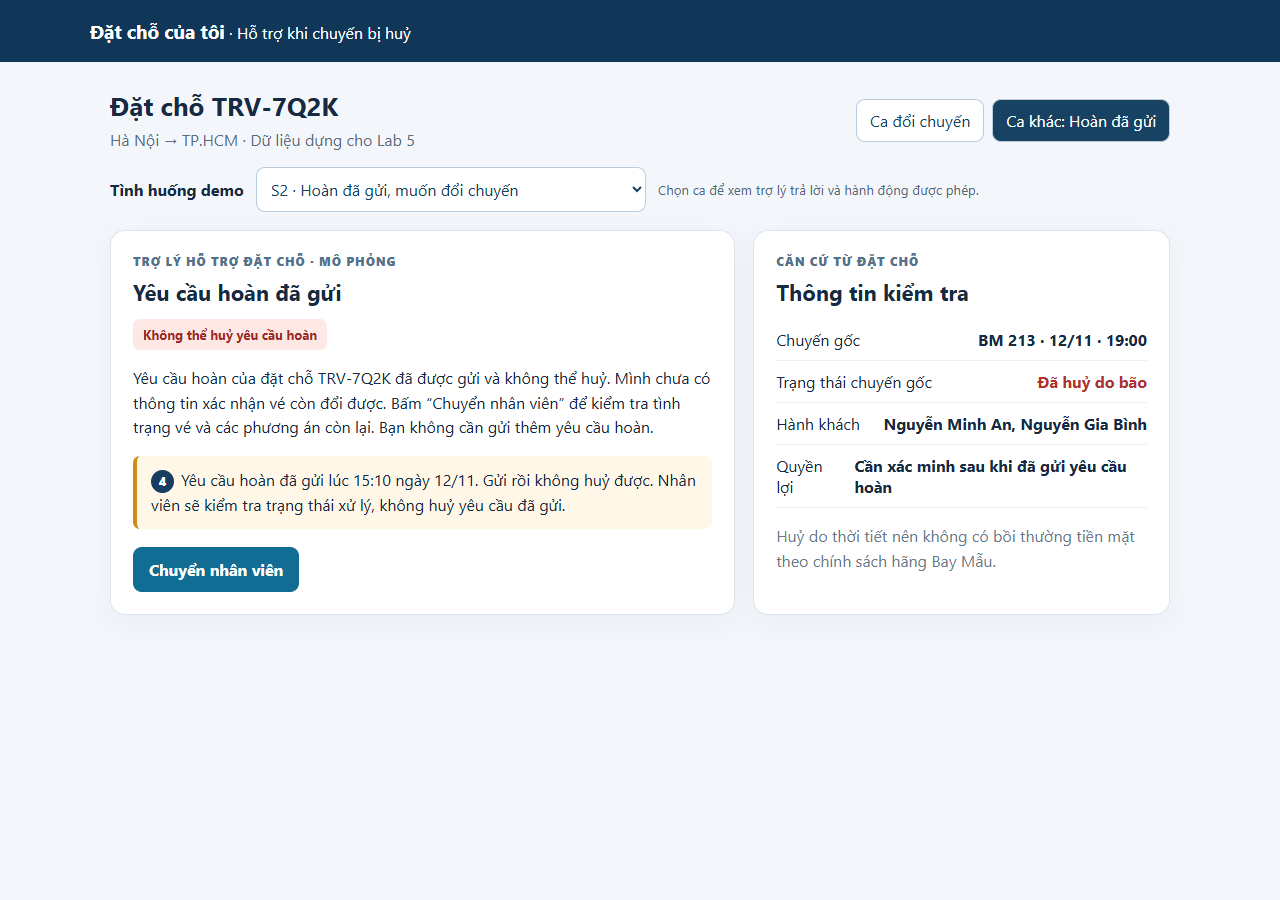
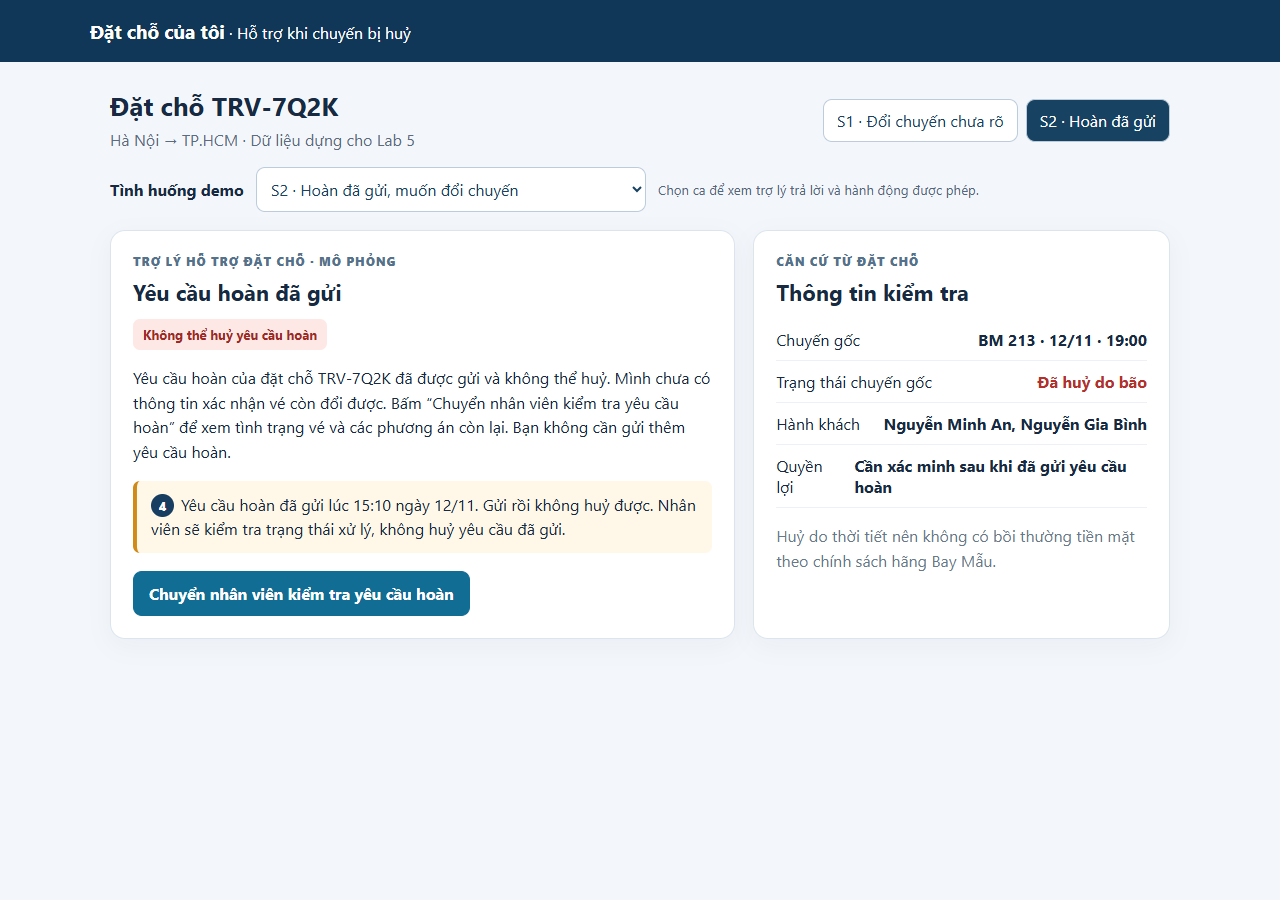
Clarify demo action labels

Changed region(s): [[0.0938, 0.4356, 0.5625, 0.6844], [0.6562, 0.0933, 0.8438, 0.1556]]

diff --git a/prototype/index.html b/prototype/index.html
@@ -13,7 +13,7 @@
 <body>
   <header><strong>Đặt chỗ của tôi</strong> · Hỗ trợ khi chuyến bị huỷ</header>
   <main class="wrap">
-    <div class="top"><div><h1>Đặt chỗ TRV-7Q2K</h1><p>Hà Nội → TP.HCM · Dữ liệu dựng cho Lab 5</p></div><div class="tabs"><button id="tab-change" class="active">Ca đổi chuyến</button><button id="tab-refund">Ca khác: Hoàn đã gửi</button></div></div>
+    <div class="top"><div><h1>Đặt chỗ TRV-7Q2K</h1><p>Hà Nội → TP.HCM · Dữ liệu dựng cho Lab 5</p></div><div class="tabs"><button id="tab-change" class="active">S1 · Đổi chuyến chưa rõ</button><button id="tab-refund">S2 · Hoàn đã gửi</button></div></div>
     <div class="scenario-picker"><label for="scenario">Tình huống demo</label><select id="scenario" aria-label="Chọn tình huống demo">
       <option value="S1">S1 · “Ừ đổi đi, hai mẹ con nhé”</option><option value="S2">S2 · Hoàn đã gửi, muốn đổi chuyến</option>
       <option value="S3">S3 · Hỏi giờ chuyến đã huỷ</option><option value="S4">S4 · Chọn chuyến 21:00 chỉ còn một chỗ</option>
@@ -101,17 +101,18 @@
       const content=el('main-content'),actions=el('actions');content.replaceChildren();actions.replaceChildren();
       if(refund){
         el('main-title').textContent='Yêu cầu hoàn đã gửi';el('status').textContent=state.step==='transfer'?'Đã chuyển nhân viên · Mô phỏng':'Không thể huỷ yêu cầu hoàn';el('status').className='status red';
-        el('message').textContent=state.step==='transfer'?'Đã tạo phiếu hỗ trợ cho đặt chỗ TRV-7Q2K. Yêu cầu hoàn vẫn ở trạng thái đã gửi.':'Yêu cầu hoàn của đặt chỗ TRV-7Q2K đã được gửi và không thể huỷ. Mình chưa có thông tin xác nhận vé còn đổi được. Bấm “Chuyển nhân viên” để kiểm tra tình trạng vé và các phương án còn lại. Bạn không cần gửi thêm yêu cầu hoàn.';
+        el('message').textContent=state.step==='transfer'?'Đã tạo phiếu hỗ trợ cho đặt chỗ TRV-7Q2K. Yêu cầu hoàn vẫn ở trạng thái đã gửi.':'Yêu cầu hoàn của đặt chỗ TRV-7Q2K đã được gửi và không thể huỷ. Mình chưa có thông tin xác nhận vé còn đổi được. Bấm “Chuyển nhân viên kiểm tra yêu cầu hoàn” để xem tình trạng vé và các phương án còn lại. Bạn không cần gửi thêm yêu cầu hoàn.';
         content.innerHTML='<div class="alert"><span class="marker">4</span>Yêu cầu hoàn đã gửi lúc 15:10 ngày 12/11. Gửi rồi không huỷ được. Nhân viên sẽ kiểm tra trạng thái xử lý, không huỷ yêu cầu đã gửi.</div>';
         if(state.step==='transfer'){content.innerHTML+='<div class="notice">Đã tạo phiếu hỗ trợ mô phỏng. Nhân viên nhận mã TRV-7Q2K, trạng thái hoàn đã gửi và yêu cầu kiểm tra khả năng đổi chuyến. Chưa có thời gian xử lý được xác nhận.</div>'}
-        else actions.append(button('Chuyển nhân viên',transfer,'primary'));
+        else actions.append(button('Chuyển nhân viên kiểm tra yêu cầu hoàn',transfer,'primary'));
         return;
       }
       if(quickCases[state.scenario] && state.step!=='transfer'){
         const c=quickCases[state.scenario];el('main-title').textContent=c.title;el('status').textContent=c.status;el('status').className='status';el('message').textContent=c.message;
         const evidence=document.createElement('div');evidence.className='notice';evidence.textContent=c.evidence;content.append(evidence);
-        if(c.next==='flights')actions.append(button('Xem chuyến thay thế',()=>chooseScenario('S1'),'primary'));
-        actions.append(button('Chuyển nhân viên',transfer,c.next==='transfer'?'primary':'ghost'));
+        if(c.next==='flights')actions.append(button('Xem hai chuyến thay thế cho cả hai',()=>chooseScenario('S1'),'primary'));
+        const helpLabel={S6:'Chuyển nhân viên kiểm tra hoàn vé',S8:'Chuyển nhân viên kiểm tra đổi tên',S9:'Chuyển nhân viên kiểm tra trẻ bay một mình'}[state.scenario]||'Nhờ nhân viên hỗ trợ';
+        actions.append(button(helpLabel,transfer,c.next==='transfer'?'primary':'ghost'));
         return;
       }
       el('main-title').textContent='Chuyến BM 213 đã huỷ';el('status').className='status';
@@ -119,10 +120,10 @@
         el('status').textContent='Chưa xác định chuyến';
         el('message').textContent=state.unavailableFlight?`${state.unavailableFlight} vừa hết chỗ trong tình huống demo. Mình đã nhả lượt giữ; chưa đổi vé. Hãy chọn chuyến còn đủ chỗ sau khi kiểm tra lại.`:state.scenario==='S4'?'BM 217 lúc 21:00 chỉ còn một chỗ, không đủ cho Nguyễn Minh An và Nguyễn Gia Bình. Mình chưa giữ hoặc đổi chuyến này. Bạn có thể chọn BM 201 hoặc BM 205 cho cả hai.':state.scenario==='S5'?'“Sáng mai” có hai chuyến: BM 201 lúc 07:00 và BM 205 lúc 09:30 ngày 13/11. Bạn chọn chuyến nào cho cả hai người? Mình chỉ giữ chỗ sau khi bạn chọn.':'Mình chưa biết bạn muốn BM 201 lúc 07:00 hay BM 205 lúc 09:30 ngày 13/11. Bạn chọn một chuyến cho cả Nguyễn Minh An và Nguyễn Gia Bình nhé. Mình sẽ giữ chỗ 20 phút, vé chỉ đổi sau khi bạn kiểm tra và bấm xác nhận.';
         const h=document.createElement('div');h.className='notice';h.innerHTML=`<span class="marker">1</span>${state.unavailableFlight?'Tồn chỗ thay đổi: xác nhận cũ không còn hiệu lực.':state.scenario==='S4'?'BM 217 không đủ chỗ cho hai người.':state.scenario==='S5'?'“Sáng mai” chưa xác định được mã chuyến.':'Khách nhắn: “Ừ đổi đi, hai mẹ con nhé.” Cần chọn đúng một chuyến trước khi giữ chỗ.'}`;content.append(h);
-        if(state.scenario==='S4'){const blocked=button('BM 217 · 12/11 · 21:00 · còn 1 chỗ — không đủ cho hai người',()=>{},'flight');blocked.disabled=true;content.append(blocked)}
-        flights.filter(f=>f.id!==state.unavailableFlight).forEach(f=>{const b=button(`${f.id} · ${f.time} · còn ${f.seats} chỗ`,()=>selectFlight(f.id),'flight');content.append(b)});
+        if(state.scenario==='S4'){const blocked=button('Không thể giữ BM 217 · 21:00 · chỉ còn 1 chỗ cho 2 người',()=>{},'flight');blocked.disabled=true;content.append(blocked)}
+        flights.filter(f=>f.id!==state.unavailableFlight).forEach(f=>{const b=button(`Chọn và giữ ${f.id} · ${f.time} · còn ${f.seats} chỗ`,()=>selectFlight(f.id),'flight');content.append(b)});
         const correction=document.createElement('p');correction.className='muted';correction.innerHTML='<span class="marker">3</span>Sau khi chọn chuyến, bạn có thể đổi lựa chọn hoặc huỷ giữ chỗ trước khi xác nhận đổi vé.';content.append(correction);
-        actions.append(button('Chuyển nhân viên',transfer));
+        actions.append(button('Nhờ nhân viên giúp chọn chuyến',transfer));
       }else if(state.step==='hold'){
         el('status').textContent='Đang giữ chỗ 20 phút';el('message').textContent=`Đã giữ tạm ${state.selected.id} cho 2 hành khách. Chưa đổi vé. Hãy kiểm tra thông tin trước khi xác nhận.`;
         const decision=document.createElement('p');
@@ -130,15 +131,15 @@
         decision.innerHTML='<span class="marker">1</span>Bạn đã chọn chuyến bên dưới cho cả hai hành khách. Vé chỉ đổi sau khi bạn xác nhận.';
         content.innerHTML=`<div class="notice"><span class="marker">3</span>Giữ chỗ còn <strong id="remaining">20:00</strong>. Có thể huỷ giữ hoặc đổi lựa chọn trước khi xác nhận. Nếu chuyển nhân viên, chỗ giữ sẽ được nhả.</div><div class="row"><span>Chuyến mới</span><strong>${state.selected.id} · ${state.selected.time}</strong></div><div class="row"><span>Hành khách</span><strong>Nguyễn Minh An và Nguyễn Gia Bình</strong></div><div class="alert">Xác nhận sẽ dùng lần đổi miễn phí duy nhất. Đổi nhầm có thể khó khôi phục.</div>`;
         content.prepend(decision);
-        actions.append(button('Xác nhận đổi cho cả hai',confirmChange,'primary'),button('Đổi lựa chọn',reset),button('Huỷ giữ chỗ',reset),button('Chuyển nhân viên',transfer),button('Giả lập hết hạn',()=>{state.deadline=null;setStep('expired')}),button('Giả lập chuyến vừa hết chỗ',simulateSeatLoss));
+        actions.append(button(`Xác nhận đổi vé sang ${state.selected.id} cho cả hai`,confirmChange,'primary'),button('Chọn chuyến khác (nhả chỗ đang giữ)',reset),button('Huỷ giữ chỗ, chưa đổi vé',reset),button('Chuyển nhân viên (nhả chỗ đang giữ)',transfer),button('Giả lập hết 20 phút giữ chỗ',()=>{state.deadline=null;setStep('expired')}),button(`Giả lập ${state.selected.id} vừa hết chỗ`,simulateSeatLoss));
       }else if(state.step==='expired'){
         el('status').textContent='Giữ chỗ hết hạn';el('message').textContent='Giữ chỗ 20 phút đã hết hạn. Chưa có lệnh đổi vé. Vui lòng chọn lại chuyến để kiểm tra số chỗ hiện tại.';
-        actions.append(button('Chọn lại chuyến',reset,'primary'),button('Chuyển nhân viên',transfer));
+        actions.append(button('Chọn lại chuyến và giữ chỗ mới',reset,'primary'),button('Chuyển nhân viên khi giữ chỗ hết hạn',transfer));
       }else if(state.step==='done'){
         el('main-title').textContent=`Đã đổi sang ${state.confirmedFlight.id}`;
         el('status').textContent='Đã xác nhận đổi · Mô phỏng';el('message').textContent=`Bạn đã xác nhận đổi sang ${state.selected.id} cho cả Nguyễn Minh An và Nguyễn Gia Bình. Lần đổi miễn phí đã được sử dụng trong mô phỏng.`;
         content.innerHTML='<div class="alert">Nếu thông tin vừa xác nhận không đúng, không thể tự khôi phục lần đổi miễn phí. Chuyển nhân viên ngay để kiểm tra phương án còn lại.</div>';
-        actions.append(button('Báo đổi nhầm · Chuyển nhân viên',transfer,'primary'),button('Làm lại ca demo',()=>chooseScenario(state.scenario)));
+        actions.append(button(`Báo đổi nhầm ${state.confirmedFlight.id} cho nhân viên`,transfer,'primary'),button(`Làm lại tình huống ${state.scenario}`,()=>chooseScenario(state.scenario)));
       }else{
         el('status').textContent='Đã chuyển nhân viên · Mô phỏng';el('message').textContent='Đã tạo phiếu hỗ trợ cho đặt chỗ TRV-7Q2K. Chưa có thời gian xử lý được xác nhận.';
         const context=document.createElement('div');context.className='notice';context.id='handoff-context';
@@ -150,7 +151,7 @@
           content.append(selected);
         }
         if(quickCases[state.scenario]){const detail=document.createElement('p');detail.textContent=`Lý do chuyển: ${quickCases[state.scenario].title}. ${quickCases[state.scenario].evidence}`;content.append(detail)}
-        actions.append(button('Làm lại ca demo',()=>chooseScenario(state.scenario)));
+        actions.append(button(`Làm lại tình huống ${state.scenario}`,()=>chooseScenario(state.scenario)));
       }
     }
     el('scenario').onchange=e=>chooseScenario(e.target.value);

diff --git a/spec.md b/spec.md
@@ -58,7 +58,7 @@ Ba việc nằm ngoài phạm vi:
 
 ### S2 · Khách muốn rút yêu cầu hoàn đã gửi
 
-**Câu AI nói nguyên văn:** “Yêu cầu hoàn của đặt chỗ TRV-7Q2K đã được gửi và không thể huỷ. Mình chưa có thông tin xác nhận vé còn đổi được. Bấm ‘Chuyển nhân viên’ để kiểm tra tình trạng vé và các phương án còn lại. Bạn không cần gửi thêm yêu cầu hoàn.”
+**Câu AI nói nguyên văn:** “Yêu cầu hoàn của đặt chỗ TRV-7Q2K đã được gửi và không thể huỷ. Mình chưa có thông tin xác nhận vé còn đổi được. Bấm ‘Chuyển nhân viên kiểm tra yêu cầu hoàn’ để xem tình trạng vé và các phương án còn lại. Bạn không cần gửi thêm yêu cầu hoàn.”
 
 **Người dùng thấy:** trạng thái “Đã gửi yêu cầu hoàn”, cảnh báo không thể huỷ yêu cầu đã gửi và nút “Chuyển nhân viên”. Mốc 15:10 ngày 12/11 là dữ liệu dựng riêng cho S2, sau mốc tra cứu 15:00 của đề. Sau khi bấm chuyển, bản mẫu hiển thị phiếu hỗ trợ với mã đặt chỗ, trạng thái hoàn và yêu cầu kiểm tra khả năng đổi chuyến. Trong thiết kế, nhân viên nhận thông tin ngay khi khách bấm; thời gian xử lý chưa xác định. Nếu khách không bấm, không phát sinh thao tác mới.
 
@@ -143,9 +143,10 @@ Phần này là phương án thiết kế đã chuẩn bị cho nhóm và căn c
 
 - **File:** [prototype/index.html](prototype/index.html). Mở trực tiếp trong trình duyệt. HTML, CSS và JavaScript chạy tại máy với dữ liệu dựng. Các hành động giữ chỗ, đổi vé, chuyển nhân viên và trạng thái hoàn là mô phỏng. Không có lời gọi AI thật.
 - **Ảnh:** [S1 trước và sau khi chọn chuyến](prototype/01-clarify.png) và [luồng hoàn đã gửi](prototype/02-refund.png). Ảnh S1 ghép hai trạng thái liên tiếp: bên trái hỏi lại, bên phải giữ chỗ trước duyệt. **[1] G10:** câu hỏi và hai lựa chọn ở trạng thái ban đầu, AI chưa tự chọn. **[2] G11:** AI tự tra cứu, hiện căn cứ loại chuyến chỉ còn một chỗ. **[3] G9:** AI giữ tạm có điều kiện, khách có nút huỷ hoặc sửa, và chỉ khách xác nhận đổi. **[4]:** giới hạn hoàn và đường hỗ trợ. Bằng chứng trực tiếp cho G9 là nút sửa/huỷ ở [3]; chuyển nhân viên ở [4] hỗ trợ phục hồi, không được coi là hoàn tác yêu cầu hoàn.
-- **Ca demo chính:** S1, lời “Ừ đổi đi, hai mẹ con nhé”. Bấm chọn BM 201, thấy giữ chỗ 20 phút, xem tóm tắt, đổi lựa chọn hoặc bấm xác nhận. Thử hết hạn mô phỏng bằng nút “Giả lập hết hạn” để thấy lệnh đổi bị khoá.
-- **Ca thứ hai:** bấm “Ca khác: Hoàn đã gửi” để thấy S2 và chuyển nhân viên. Đây là trạng thái mô phỏng cho mục đích trình bày.
-- **Các ca có thể bấm thêm:** bộ chọn tình huống cho S3–S11 dùng cùng khung đặt chỗ. S3 trả lời giờ bay kèm trạng thái huỷ; S4 khoá BM 217 vì chỉ còn một chỗ; S5 hỏi lại chuyến sáng mai; S6 dừng gửi hoàn khi thiếu hành khách/khoản hoàn/nơi nhận; S7 nêu đúng quyền lợi do bão; S8–S9 chuyển người vì thiếu tool hoặc chính sách; S10 không nhận lời tự xưng nhân viên làm quyền duyệt; S11 mở trạng thái đã đổi BM 205 và đường báo đổi nhầm. Chọn S4 rồi giữ một chuyến còn có nút **Giả lập chuyến vừa hết chỗ**: lượt giữ và quyền xác nhận cũ bị huỷ, khách chọn lại chuyến còn đủ chỗ. Đây là biến thể dữ liệu do người demo kích hoạt, không phải cập nhật tồn chỗ trực tiếp.
+- **Ca demo chính:** S1, lời “Ừ đổi đi, hai mẹ con nhé”. Bấm **Chọn và giữ BM 201**, thấy giữ chỗ 20 phút, xem tóm tắt, bấm **Chọn chuyến khác (nhả chỗ đang giữ)** hoặc **Xác nhận đổi vé sang BM 201 cho cả hai**. Thử **Giả lập hết 20 phút giữ chỗ** để thấy lệnh đổi bị khoá.
+- **Ca thứ hai:** bấm **S2 · Hoàn đã gửi**, rồi **Chuyển nhân viên kiểm tra yêu cầu hoàn**. Đây là trạng thái mô phỏng cho mục đích trình bày.
+- **Các ca có thể bấm thêm:** bộ chọn tình huống cho S3–S11 dùng cùng khung đặt chỗ. S3 trả lời giờ bay kèm trạng thái huỷ; S4 khoá BM 217 vì chỉ còn một chỗ; S5 hỏi lại chuyến sáng mai; S6 dừng gửi hoàn khi thiếu hành khách/khoản hoàn/nơi nhận; S7 nêu đúng quyền lợi do bão; S8–S9 chuyển người vì thiếu tool hoặc chính sách; S10 không nhận lời tự xưng nhân viên làm quyền duyệt; S11 mở trạng thái đã đổi BM 205 và đường báo đổi nhầm. Chọn S4 rồi giữ BM 201 còn có nút **Giả lập BM 201 vừa hết chỗ**: lượt giữ và quyền xác nhận cũ bị huỷ, khách chọn lại chuyến còn đủ chỗ. Đây là biến thể dữ liệu do người demo kích hoạt, không phải cập nhật tồn chỗ trực tiếp.
+- **Nhãn hành động:** nút chọn chuyến nói rõ sẽ giữ chỗ ngay; nút xác nhận nêu mã chuyến và hai hành khách; nút đổi/huỷ nói rõ chỗ đang giữ sẽ được nhả; nút chuyển nhân viên nêu lý do của từng ca. Các nút giả lập có chữ “Giả lập” để phân biệt với thao tác của hành khách.
 - **Phạm vi tương tác:** S1/S2 là hai luồng chính trong ảnh đánh số; các ca khác là nhánh cùng giao diện để thử chính sách khi bị hỏi. S6 không có nút gửi hoàn vì fixture thiếu khoản tiền, phương thức và thời gian hoàn. Không có nhập câu hỏi tự do hay lời gọi AI thật; bộ chọn tình huống chạy các phản ứng đã thiết kế.
 - **Cách hiện được chọn:** thẻ chuyến có mã và số chỗ, nhãn trạng thái, tóm tắt hai hành khách ngay cạnh nút xác nhận. Đã cân nhắc một câu “AI tự tin 92%”, nhưng tỷ lệ đó không có cơ sở trong fixture và không giúp khách xác nhận đúng chuyến. Đã cân nhắc chỉ hiện chat dài, nhưng thông tin hành khách và quyền đổi sẽ bị khuất khi bấm.
 

diff --git a/individual/2A202604088_NguyenAnhTu.md b/individual/2A202604088_NguyenAnhTu.md
@@ -8,8 +8,8 @@
 
 Prototype và hai ảnh đã có. Đọc [spec.md §5–§6](../spec.md) và [hướng dẫn luyện demo](../README.md), rồi mở [prototype](../prototype/index.html) bằng trình duyệt để chạy lại theo thứ tự trình bày.
 
-1. Ở **S1**, chỉ [1] hỏi lại vì khách chưa chọn chuyến và [2] BM 217 chỉ còn một chỗ. Chọn BM 201 rồi chỉ [3] giữ tạm, nút huỷ và nút xác nhận. Bấm **Huỷ giữ chỗ** hoặc **Giả lập hết hạn** để kiểm tra nút xác nhận biến mất. Chọn lại và xác nhận cho cả hai. [Ảnh S1](../prototype/01-clarify.png)
-2. Mở **Ca khác: Hoàn đã gửi**. Chỉ [4] cảnh báo không thể huỷ yêu cầu hoàn đã gửi. Bấm **Chuyển nhân viên** và kiểm tra mã đặt chỗ cùng trạng thái hoàn trong phiếu. [Ảnh S2](../prototype/02-refund.png)
+1. Ở **S1**, chỉ [1] hỏi lại vì khách chưa chọn chuyến và [2] BM 217 chỉ còn một chỗ. Bấm **Chọn và giữ BM 201** rồi chỉ [3] giữ tạm, nút huỷ và nút xác nhận. Bấm **Huỷ giữ chỗ, chưa đổi vé** hoặc **Giả lập hết 20 phút giữ chỗ** để kiểm tra nút xác nhận biến mất. Chọn lại và xác nhận cho cả hai. [Ảnh S1](../prototype/01-clarify.png)
+2. Mở **S2 · Hoàn đã gửi**. Chỉ [4] cảnh báo không thể huỷ yêu cầu hoàn đã gửi. Bấm **Chuyển nhân viên kiểm tra yêu cầu hoàn** và kiểm tra mã đặt chỗ cùng trạng thái hoàn trong phiếu. [Ảnh S2](../prototype/02-refund.png)
 3. Trình bày kết quả **P1–P3** ở §6; chỉ quyền lợi sau đổi và sự khác nhau của phiếu chuyển trước/sau đổi để chứng minh prototype làm đúng chính sách năm tool.
 
 **Ý chính để trình bày:** cho người xem thấy khác biệt giữa chọn chuyến, giữ chỗ tạm và xác nhận đổi. Nếu ca lạ nằm ngoài hai màn hình đã dựng, giải thích trợ lý được làm gì theo §4 và bước tiếp theo mà khách sẽ thấy.
@@ -28,7 +28,7 @@ Các kết quả bên dưới là kết quả kiểm tra của bản prototype h
 
 **Lời thoại luyện demo:** “Ở [1], khách chưa nói rõ chuyến nào. [2] giải thích vì sao chỉ có hai lựa chọn đủ chỗ. Khi tôi chọn BM 201, [3] cho thấy chỗ đang được giữ và có thể huỷ. Tôi thử hết hạn để thấy nút đổi biến mất, rồi chọn lại và xác nhận cho cả hai. Sau khi xác nhận, quyền lợi ghi đã dùng lần miễn phí. Nếu đổi nhầm, tôi bấm chuyển nhân viên và chỉ thông tin chuyến đã đổi trong phiếu. Ở ca hoàn đã gửi, [4] cho biết yêu cầu không thể huỷ sau khi gửi.”
 
-**Ca luyện:** Nếu khách muốn đổi sang BM 205 sau khi đã giữ BM 201, bấm **Đổi lựa chọn**, chọn BM 205 và kiểm tra màn hình duyệt ghi đúng chuyến mới. Khi thao tác đổi đã hoàn tất, dùng đường báo đổi nhầm để chuyển người. [Prototype](../prototype/index.html)
+**Ca luyện:** Nếu khách muốn đổi sang BM 205 sau khi đã giữ BM 201, bấm **Chọn chuyến khác (nhả chỗ đang giữ)**, rồi **Chọn và giữ BM 205**; kiểm tra màn hình duyệt ghi đúng chuyến mới. Khi thao tác đổi đã hoàn tất, dùng nút báo đổi nhầm tương ứng để chuyển người. [Prototype](../prototype/index.html)
 
 ## Bằng chứng cho phần trình bày
 

diff --git a/README.md b/README.md
@@ -13,11 +13,11 @@ Bài thiết kế và prototype cho tính năng **Đặt chỗ của tôi** khi 
 - [Tài liệu bổ trợ cho buổi luyện](individual/)
 
 1. Mở `prototype/index.html` trực tiếp bằng trình duyệt. Ca mặc định là **S1**: khách đã nói “Ừ đổi đi, hai mẹ con nhé” nhưng chưa chọn chuyến cụ thể.
-2. Chọn **BM 201**. Kiểm tra màn hình hiển thị đúng chuyến, hai hành khách, bộ đếm 20 phút và cảnh báo sẽ dùng lần đổi miễn phí duy nhất. Thử **Đổi lựa chọn** hoặc **Huỷ giữ chỗ**. Có thể bấm **Giả lập hết hạn** để kiểm tra không còn nút xác nhận.
-3. Chọn lại chuyến rồi bấm **Xác nhận đổi cho cả hai**. Nếu bấm **Báo đổi nhầm · Chuyển nhân viên**, bản mẫu hiển thị phiếu ghi chuyến đã đổi và lần miễn phí đã dùng, không tự đổi lần nữa. Kiểm tra cột quyền lợi cũng đã cập nhật.
-4. Mở **Ca khác: Hoàn đã gửi** để thử **S2**. Kiểm tra cảnh báo không thể huỷ yêu cầu hoàn đã gửi và bấm **Chuyển nhân viên** để thấy phiếu có mã đặt chỗ cùng trạng thái yêu cầu.
+2. Bấm **Chọn và giữ BM 201**. Kiểm tra mã chuyến, hai hành khách, bộ đếm 20 phút và cảnh báo về lần đổi miễn phí. Thử **Chọn chuyến khác (nhả chỗ đang giữ)** hoặc **Huỷ giữ chỗ, chưa đổi vé**. Nút **Giả lập hết 20 phút giữ chỗ** cho thấy quyền xác nhận biến mất.
+3. Chọn lại chuyến rồi bấm **Xác nhận đổi vé sang BM 201 cho cả hai**. Bấm **Báo đổi nhầm BM 201 cho nhân viên** để xem phiếu ghi chuyến đã đổi và lần miễn phí đã dùng. Cột quyền lợi cũng được cập nhật.
+4. Bấm **S2 · Hoàn đã gửi**. Kiểm tra cảnh báo không thể huỷ yêu cầu hoàn, rồi bấm **Chuyển nhân viên kiểm tra yêu cầu hoàn** để xem phiếu có mã đặt chỗ và trạng thái yêu cầu.
 
-**Thử thêm trong cùng giao diện:** dùng mục **Tình huống demo** để chọn S3–S11. S4 cho thấy BM 217 bị khoá vì chỉ còn một chỗ; sau khi giữ BM 201 hoặc BM 205 có thể bấm **Giả lập chuyến vừa hết chỗ** để xem trợ lý huỷ xác nhận cũ và yêu cầu chọn lại. S6/S8/S9 chỉ cho chuyển hỗ trợ khi thiếu dữ kiện hoặc quyền; S10 không bỏ qua xác nhận; S11 cho thấy phiếu khi khách báo đổi nhầm. Các nhánh dùng dữ liệu và lời thoại dựng sẵn, không nhận câu hỏi tự do.
+**Thử thêm trong cùng giao diện:** dùng mục **Tình huống demo** để chọn S3–S11. S4 cho thấy nút **Không thể giữ BM 217** bị khoá vì chỉ còn một chỗ. Sau khi giữ BM 201, bấm **Giả lập BM 201 vừa hết chỗ** để xem trợ lý huỷ xác nhận cũ và yêu cầu chọn lại. S6/S8/S9 có nút chuyển nhân viên nêu rõ lý do; S10 không bỏ qua xác nhận; S11 có nút báo đổi nhầm BM 205. Các nhánh dùng dữ liệu và lời thoại dựng sẵn, không nhận câu hỏi tự do.
 
 Prototype chạy bằng HTML, CSS và JavaScript, với dữ liệu dựng của track T3. Giữ chỗ, đổi vé và tạo phiếu hỗ trợ đều là mô phỏng. Có thể mở file trực tiếp, không cần tài khoản, máy chủ hay API key.
 

diff --git a/individual/2A202604113_PhamTranQuoc.md b/individual/2A202604113_PhamTranQuoc.md
@@ -51,7 +51,7 @@ Tôi chọn **S1** và **S2** vì chúng nằm ở hai thời điểm quanh mộ
 
 Tôi xem câu này là **xác nhận mơ hồ** vì khách nói rõ hai người nhưng chưa chọn BM 201 lúc 07:00 hay BM 205 lúc 09:30. AI hỏi đúng một việc còn thiếu bằng hai thẻ có mã chuyến, giờ và số chỗ. Lời AI nói rõ “mình chưa biết bạn muốn chuyến nào” và giải thích trình tự **chọn chuyến → giữ 20 phút → kiểm tra → xác nhận đổi**. Nhãn “Chưa xác định chuyến” ở **[1]** cho biết vì sao chưa có nút đổi. Căn cứ ở **[2]** cho biết BM 217 chỉ còn một chỗ, không phù hợp với hai người. [Ảnh S1](../prototype/01-clarify.png)
 
-Sau khi khách chọn chuyến đủ chỗ, màn hình giữ chỗ hiện mã chuyến, ngày giờ, hai hành khách và cảnh báo sẽ dùng lần đổi miễn phí duy nhất nếu xác nhận. Tôi thêm nút **Đổi lựa chọn**, **Huỷ giữ chỗ** và **Chuyển nhân viên** trước điểm xác nhận. Bộ đếm 20 phút làm rõ thời hạn giữ. Nếu hết hạn, nút xác nhận biến mất và khách phải chọn lại. Các nút ở **[3]** cho khách sửa ngay khi chọn nhầm, trước khi dùng lần đổi miễn phí (G9).
+Sau khi khách chọn chuyến đủ chỗ, màn hình giữ chỗ hiện mã chuyến, ngày giờ, hai hành khách và cảnh báo sẽ dùng lần đổi miễn phí duy nhất nếu xác nhận. Tôi đặt nhãn nút theo hậu quả của thao tác: **Chọn và giữ BM 201**, **Chọn chuyến khác (nhả chỗ đang giữ)**, **Huỷ giữ chỗ, chưa đổi vé** và **Xác nhận đổi vé sang BM 201 cho cả hai**. Bộ đếm 20 phút làm rõ thời hạn giữ. Nếu hết hạn, nút xác nhận biến mất và khách phải chọn lại. Các nút ở **[3]** cho khách sửa ngay khi chọn nhầm, trước khi dùng lần đổi miễn phí (G9).
 
 Tôi cân nhắc cho AI tự chọn chuyến để nhanh hơn, nhưng cách đó có thể dùng sai lần đổi miễn phí. Chuyển nhân viên ngay có thể làm lỡ chỗ phù hợp. Hỏi lại bằng hai lựa chọn cụ thể xử lý đúng thông tin còn thiếu, sau đó cho giữ chỗ tạm mà chưa đổi vé. Nếu AI coi “đổi đi” là đồng ý với một chuyến cụ thể, đó là **lỗi ngữ cảnh của thiết kế**. Lời xin lỗi sau khi đổi nhầm không trả lại lần đổi miễn phí; cách cứu là khóa `doi_chuyen_bay` đến khi có xác nhận rõ ràng.
 
